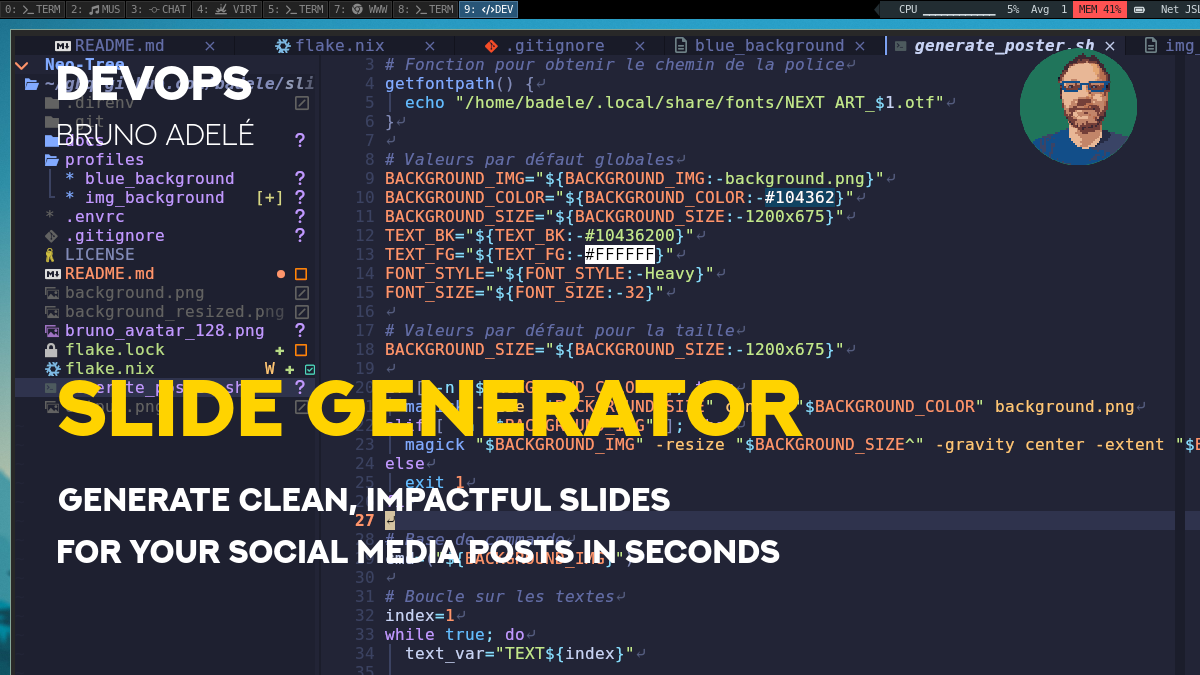
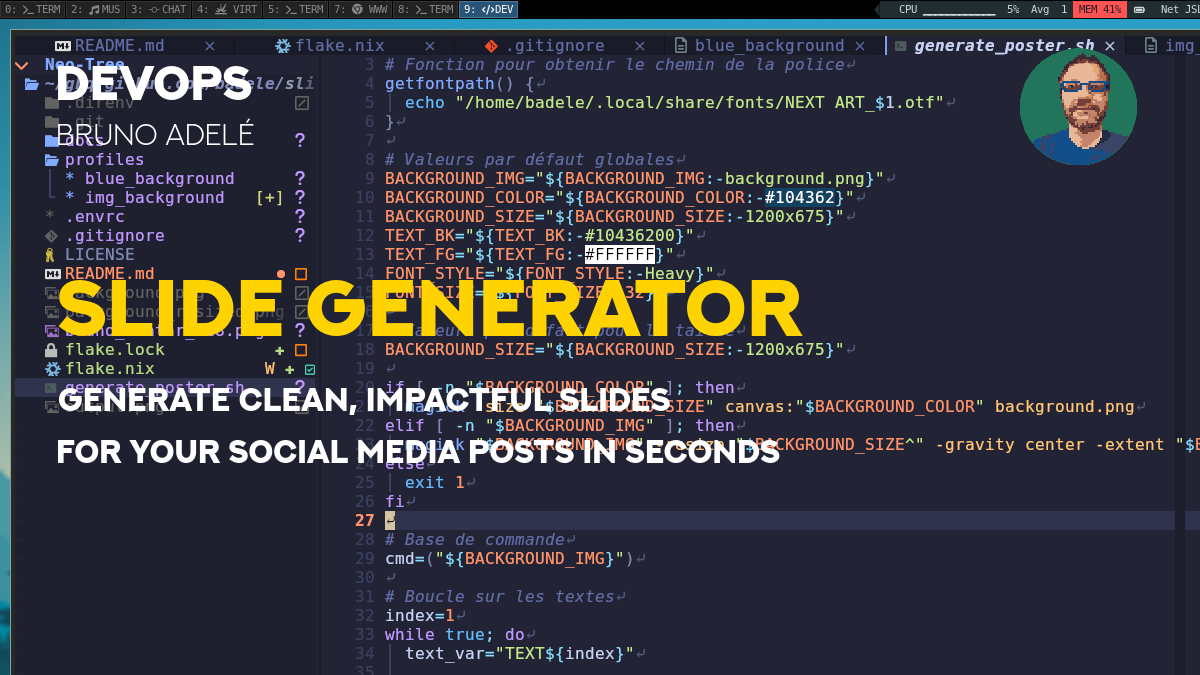
feat: improve test isolation, Docker integration, and user_post profile documentation (#9)
- Add .dockerignore for cleaner Docker builds
- Update .gitignore to ignore tests/ directory
- Enhance justfile:
  - Parameterize compare output file
  - Ensure tests directory is cleaned before running tests
  - Mount tests/ directory in docker-test for better isolation
- Update user_post profile README to use new text variable names and image options
- Update mosaique.png asset

Changed region(s): [[0.0308, 0.56, 0.6783, 0.6844], [0.0308, 0.7156, 0.6475, 0.84], [0.0308, 0.4044, 0.6783, 0.4978]]

diff --git a/profiles/user_post/README.md b/profiles/user_post/README.md
@@ -6,12 +6,12 @@
 
 ```bash
 ./generate_slide.sh --profile user_post \
-  --set TEXT2="DEVOPS" \
-  --set TEXT3="BRUNO ADELÉ" \
-  --set TEXT4="SLIDE GENERATOR" \
-  --set TEXT5="Generate clean, impactful slides" \
-  --set TEXT6="for your social media posts in seconds" \
-  --set IMG99="https://raw.githubusercontent.com/badele/slide-generator/refs/heads/main/resources/bruno_avatar_128.png"
+  --set TEXT10="DEVOPS" \
+  --set TEXT11="BRUNO ADELÉ" \
+  --set TEXT12="SLIDE GENERATOR" \
+  --set TEXT13="Generate clean, impactful slides" \
+  --set TEXT14="for your social media posts in seconds" \
+  --set IMG99="https://raw.githubusercontent.com/badele/slide-generator/refs/heads/main/resources/bruno_avatar_128.png" --set IMG99_GRAVITY="northeast" --set IMG99_GEOMETRY="+58+42"
 ```
 
 ## Custom background image
@@ -21,12 +21,12 @@
 ```bash
 ./generate_slide.sh --profile user_post \
   --set IMG1="resources/vim_vide_project.png" \
-  --set TEXT2="DEVOPS" \
-  --set TEXT3="BRUNO ADELÉ" \
-  --set TEXT4="SLIDE GENERATOR" \
-  --set TEXT5="Generate clean, impactful slides" \
-  --set TEXT6="for your social media posts in seconds" \
-  --set IMG99="https://raw.githubusercontent.com/badele/slide-generator/refs/heads/main/resources/bruno_avatar_128.png"
+  --set TEXT10="DEVOPS" \
+  --set TEXT11="BRUNO ADELÉ" \
+  --set TEXT12="SLIDE GENERATOR" \
+  --set TEXT13="Generate clean, impactful slides" \
+  --set TEXT14="for your social media posts in seconds" \
+  --set IMG99="https://raw.githubusercontent.com/badele/slide-generator/refs/heads/main/resources/bruno_avatar_128.png" --set IMG99_GRAVITY="northeast" --set IMG99_GEOMETRY="+58+42"
 ```
 
 ![result](./sample3.png)
@@ -34,10 +34,26 @@
 ```bash
 ./generate_slide.sh --profile user_post \
   --set IMG1="resources/vim_vide_project.png" \
-  --set TEXT2="DEVOPS" \
-  --set TEXT3="BRUNO ADELÉ" \
-  --set TEXT4="SLIDE GENERATOR" \
-  --set TEXT5="Generate clean, impactful slides" --set TEXT5_BG="#FFFFFF" --set TEXT5_FG="#000000" --set TEXT5_EFFECTS_AFTER="-trim -bordercolor '#FFFFFF' -border 5x5" \
-  --set TEXT6="for your social media posts in seconds" --set TEXT6_BG="#FFFFFF" --set TEXT6_FG="#000000" --set TEXT6_EFFECTS_AFTER="-trim -bordercolor '#FFFFFF' -border 5x5" \
-  --set IMG99="https://raw.githubusercontent.com/badele/slide-generator/refs/heads/main/resources/bruno_avatar_128.png"
+  --set TEXT10="DEVOPS" \
+  --set TEXT11="BRUNO ADELÉ" \
+  --set TEXT12="SLIDE GENERATOR" \
+  --set TEXT13="Generate clean, impactful slides" --set TEXT13_BG="#FFFFFF" --set TEXT13_FG="#000000" --set TEXT13_EFFECTS_AFTER="-trim -bordercolor '#FFFFFF' -border 5x5" \
+  --set TEXT14="for your social media posts in seconds" --set TEXT14_BG="#FFFFFF" --set TEXT14_FG="#000000" --set TEXT14_EFFECTS_AFTER="-trim -bordercolor '#FFFFFF' -border 5x5" \
+  --set IMG99="https://raw.githubusercontent.com/badele/slide-generator/refs/heads/main/resources/bruno_avatar_128.png" --set IMG99_GRAVITY="northeast" --set IMG99_GEOMETRY="+58+42"
+```
+
+## With title section
+
+![result](./sample4.png)
+
+```bash
+./generate_slide.sh --profile user_post \
+  --set TEXT10="DEVOPS" \
+  --set TEXT11="BRUNO ADELÉ" \
+  --set TEXT12="SLIDE GENERATOR" \
+  --set TEXT13="Generate clean, impactful slides" \
+  --set TEXT14="for your social media posts in seconds" \
+  --set COMMAND90="-stroke '#FFFFFF' -strokewidth 3 -draw 'line 58,639 1142,639'" \
+  --set TEXT91="L'atelier" --set TEXT91_FONT_SIZE=32 --set TEXT91_GRAVITY="north" --set TEXT91_GEOMETRY="+0+626" --set TEXT91_EFFECTS_AFTER="-trim -bordercolor '#104362' -border 12x0" \
+  --set IMG99="https://raw.githubusercontent.com/badele/slide-generator/refs/heads/main/resources/bruno_avatar_128.png" --set IMG99_GRAVITY="northeast" --set IMG99_GEOMETRY="+58+42"
 ```
